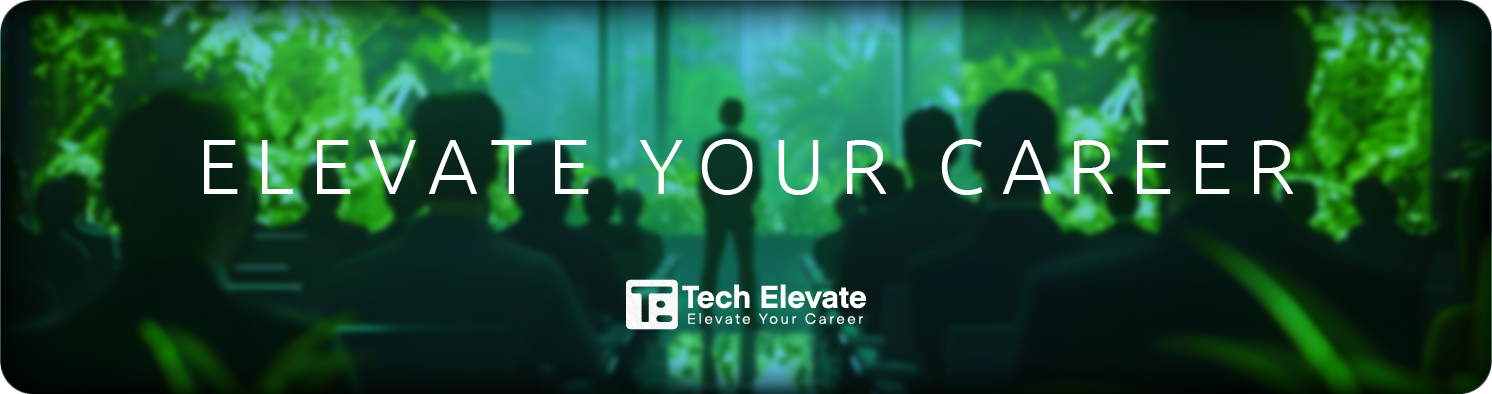
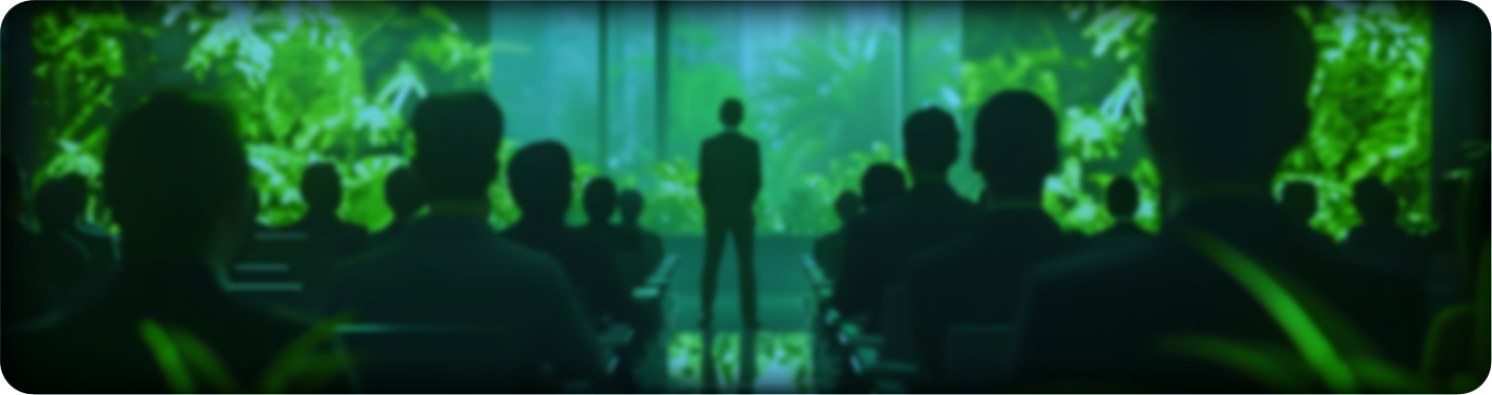
Elevate your carear section fully responsive now

diff --git a/src/public/layout/ElevateBanner.jsx b/src/public/layout/ElevateBanner.jsx
@@ -1,52 +1,154 @@
+// // ELEVATE YOUR CAREER
+// import React from "react";
+// import elevatePhoto from "@/assets/sections/elevate-photo.png";
+
+// const ElevateBanner = () => {
+//   return (
+//     <section className="w-full py-10 sm:py-14 md:py-20 bg-white">
+//       <div className="max-w-[1440px] mx-auto px-4 sm:px-6 md:px-10">
+//         <div
+//           className="relative w-full
+//             /* Aspect Ratio & Height */
+//             aspect-[3/2]
+//             sm:aspect-auto sm:h-[220px]
+//             md:h-[320px]
+//             lg:h-[400px]
+//             xl:h-[440px]
+//             /* Styling */
+//             rounded-[20px] sm:rounded-[30px] md:rounded-[40px] lg:rounded-[60px]
+//             overflow-hidden shadow-xl md:shadow-2xl
+//             border border-gray-100
+//             bg-black
+//             /* Background Image Properties */
+//             bg-cover bg-center bg-no-repeat
+//             group transition-all duration-700 ease-in-out"
+//           style={{
+//             backgroundImage: `url(${elevatePhoto})`,
+//           }}
+//         >
+//           {/* Note: Background image-এ transition scale (zoom effect) সরাসরি div-এ দেওয়া যায় না। 
+//             যদি zoom effect চান, তবে নিচের মতো একটি জিরো-ইনডেক্সড ইনসেট ডিভ ব্যবহার করা ভালো।
+//           */}
+//           <div 
+//             className="absolute inset-0 bg-cover bg-center transition-transform duration-1000 ease-out group-hover:scale-105"
+//             style={{ backgroundImage: `url(${elevatePhoto})` }}
+//           />
+
+//           {/* Gradient Overlay */}
+//           <div
+//             className="absolute inset-0
+//               bg-gradient-to-t
+//               from-black/60
+//               via-transparent
+//               to-transparent
+//               opacity-80
+//               group-hover:opacity-60
+//               transition-opacity duration-700
+//               pointer-events-none"
+//           />
+          
+//           {/* আপনি চাইলে এখানে টেক্সট যোগ করতে পারেন */}
+//           <div className="relative z-10 h-full flex items-center px-10">
+//              {/* Content goes here */}
+//           </div>
+//         </div>
+//       </div>
+//     </section>
+//   );
+// };
+
+// export default ElevateBanner;
+
+
 import React from "react";
-import elevatePhoto from "@/assets/sections/elevate-photo.png";
+import bannerImg from "@/assets/sections/elevate-photo.png";
+import whiteLogo from "@/assets/tech-elevate-white-logo.png";
 
-const ElevateBanner = () => {
+const ElevateBanner = ({ title = "ELEVATE YOUR CAREER" }) => {
   return (
-    <section className="w-full py-10 sm:py-14 md:py-20 bg-white">
-      <div className="max-w-[1440px] mx-auto px-4 sm:px-6 md:px-10">
+    <section className="w-full py-6 sm:py-10 bg-base-200">
+      <div className="max-w-[1400px] mx-auto px-4 sm:px-6 lg:px-8">
+
         <div
-          className="relative w-full
-            /* Mobile: taller ratio so image fills properly, no gray bars */
-            aspect-[3/2]
-            /* Small tablet: start going wider */
-            sm:aspect-auto sm:h-[220px]
-            md:h-[320px]
-            lg:h-[400px]
-            xl:h-[440px]
-            rounded-[20px] sm:rounded-[30px] md:rounded-[40px] lg:rounded-[60px]
-            overflow-hidden shadow-xl md:shadow-2xl
-            border border-gray-100
-            bg-black
-            group transition-all duration-700 ease-in-out"
+          className="
+          relative
+          w-full
+          min-h-[180px]
+          sm:min-h-[240px]
+          md:min-h-[300px]
+          lg:min-h-[380px]
+          xl:min-h-[420px]
+          rounded-[28px]
+          sm:rounded-[36px]
+          lg:rounded-[48px]
+          overflow-hidden
+          flex
+          items-center
+          justify-center
+          text-center
+          "
         >
-          {/* Banner Image */}
+
+          {/* Background Image */}
           <img
-            src={elevatePhoto}
-            alt="Elevate Your Career"
+            src={bannerImg}
+            alt="Elevate Banner"
             loading="lazy"
-            className="
-              absolute inset-0
-              w-full h-full
-              object-cover
-              object-center
-              transition-transform duration-1000 ease-out
-              group-hover:scale-105
-            "
+            className="absolute inset-0 w-full h-full object-cover"
           />
 
-          {/* Gradient Overlay */}
+          {/* Overlay Gradient */}
+          <div className="absolute inset-0 bg-gradient-to-r from-[#063d2f]/80 via-[#0b3d2e]/70 to-[#063d2f]/80"></div>
+
+          {/* Title */}
+          <h1
+            className="
+            relative
+            text-white
+            uppercase
+            font-extrabold
+            tracking-[0.25em]
+            px-4
+            leading-tight
+
+            text-[18px]
+            sm:text-[26px]
+            md:text-[38px]
+            lg:text-[48px]
+            xl:text-[60px]
+            "
+          >
+            {title}
+          </h1>
+
+          {/* Bottom Logo */}
           <div
-            className="absolute inset-0
-              bg-gradient-to-t
-              from-black/60
-              via-transparent
-              to-transparent
-              opacity-80
-              group-hover:opacity-60
-              transition-opacity duration-700
-              pointer-events-none"
-          />
+            className="
+            absolute
+            bottom-4
+            sm:bottom-6
+            md:bottom-8
+            left-1/2
+            -translate-x-1/2
+            flex
+            items-center
+            justify-center
+            "
+          >
+            <img
+              src={whiteLogo}
+              alt="Tech Elevate"
+              className="
+              h-6
+              sm:h-8
+              md:h-10
+              lg:h-12
+              object-contain
+              opacity-95
+              "
+            />
+          </div>
+
         </div>
       </div>
     </section>
